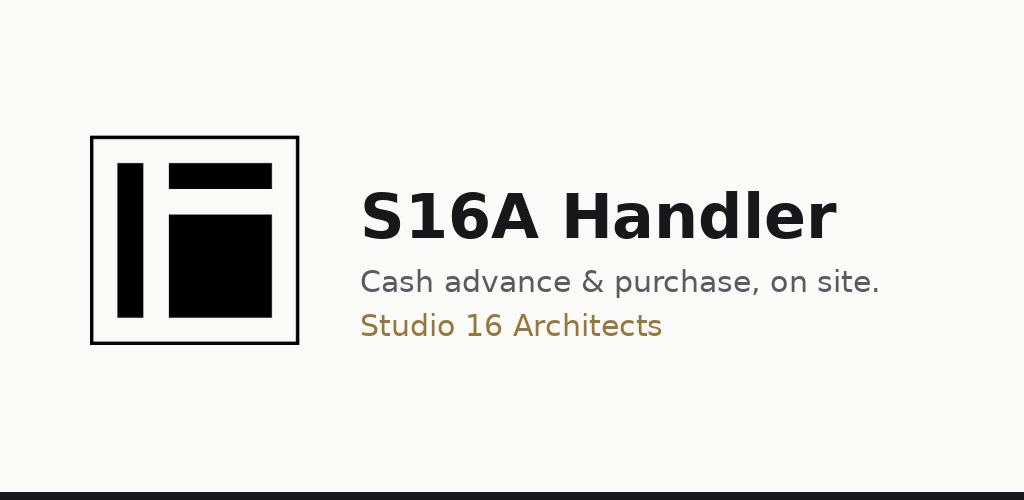
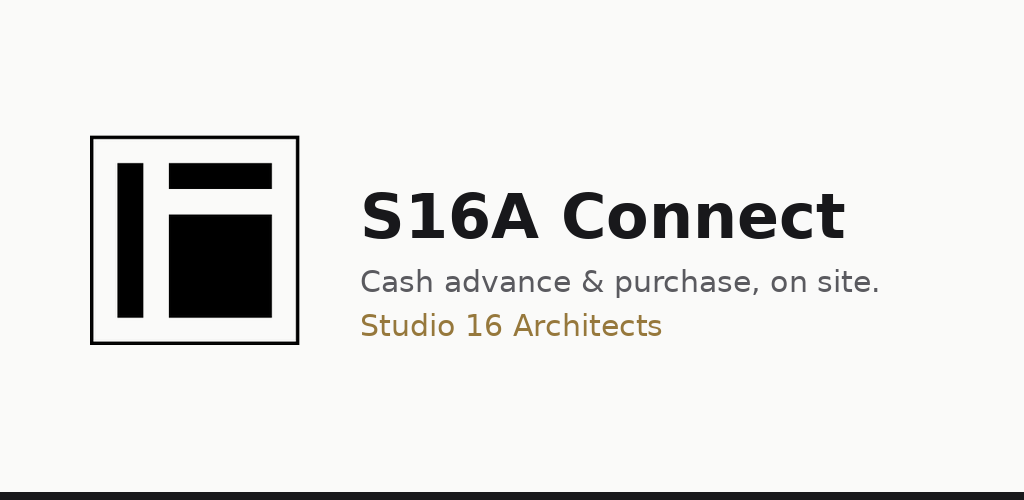
Add files via upload

Changed region(s): [[0.5312, 0.36, 0.8438, 0.48]]

diff --git a/Connect/privacy.html b/Connect/privacy.html
@@ -3,7 +3,7 @@
 <head>
   <meta charset="UTF-8" />
   <meta name="viewport" content="width=device-width, initial-scale=1.0" />
-  <title>Privacy Policy — S16A Handler</title>
+  <title>Privacy Policy — S16A Connect</title>
   <style>
     body{font-family:system-ui,-apple-system,"Segoe UI",Roboto,sans-serif;max-width:760px;margin:0 auto;padding:32px 20px 80px;color:#27272a;line-height:1.65}
     h1{font-size:28px;margin:0 0 4px}
@@ -17,10 +17,10 @@
 </head>
 <body>
   <h1>Privacy Policy</h1>
-  <div class="sub">S16A Handler — Studio 16 Architects · Last updated: 9 July 2026</div>
+  <div class="sub">S16A Connect — Studio 16 Architects · Last updated: 9 July 2026</div>
 
   <div class="box">
-    S16A Handler is a private, internal business application for authorised staff of Studio 16 Architects
+    S16A Connect is a private, internal business application for authorised staff of Studio 16 Architects
     (Sync Land Limited). It is not intended for use by the general public, and accounts are issued by the
     company. The app is not directed to children under 13.
   </div>